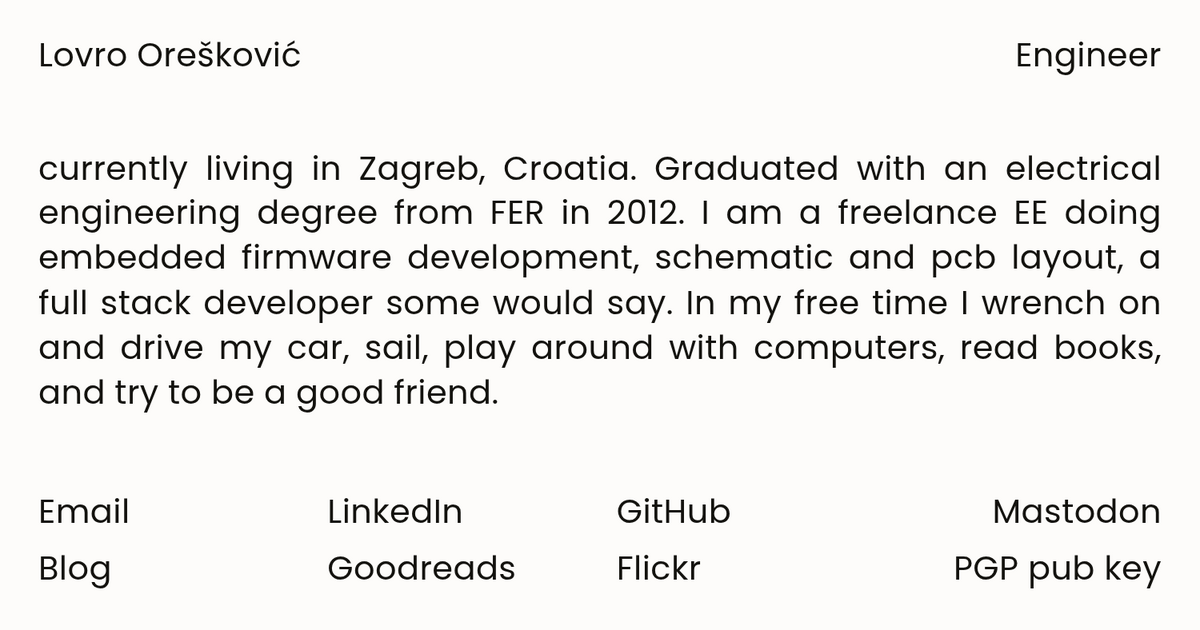
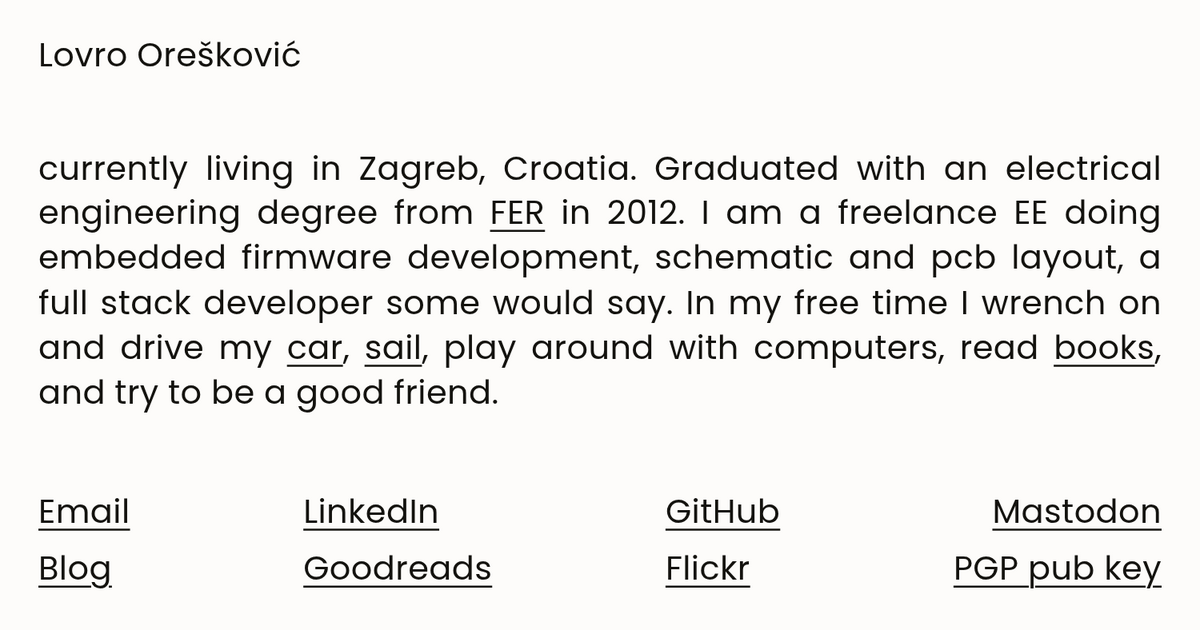
drop Engineer from the title and social metadata, re-render the card
- <title>, og:title, twitter:title and og:image:alt are just the name now, so
  the browser tab, bookmarks and link unfurls match the page.
- img-social.png was a screenshot of the page with the old masthead, so it had
  "Engineer" rendered into the picture itself. Re-rendered from the page as it
  stands now.

diff --git a/index.html b/index.html
@@ -4,7 +4,7 @@
 <head>
     <meta charset="utf-8">
     <meta name="viewport" content="width=device-width, initial-scale=1">
-    <title>Lovro Orešković — Engineer</title>
+    <title>Lovro Orešković</title>
     <meta name="description" content="Lovro Orešković, freelance electrical engineer in Zagreb, Croatia. Embedded firmware, schematic and PCB design, and full stack development.">
     <meta name="author" content="Lovro Orešković">
     <link rel="canonical" href="https://lovro.oreskovic.me/">
@@ -15,14 +15,14 @@
     <meta property="og:type" content="website">
     <meta property="og:site_name" content="Lovro Orešković">
     <meta property="og:url" content="https://lovro.oreskovic.me/">
-    <meta property="og:title" content="Lovro Orešković — Engineer">
+    <meta property="og:title" content="Lovro Orešković">
     <meta property="og:description" content="Personal site of Lovro Orešković">
     <meta property="og:image" content="https://lovro.oreskovic.me/img-social.png">
     <meta property="og:image:width" content="1200">
     <meta property="og:image:height" content="630">
-    <meta property="og:image:alt" content="Lovro Orešković — Engineer">
+    <meta property="og:image:alt" content="Lovro Orešković">
     <meta name="twitter:card" content="summary_large_image">
-    <meta name="twitter:title" content="Lovro Orešković — Engineer">
+    <meta name="twitter:title" content="Lovro Orešković">
     <meta name="twitter:description" content="Personal site of Lovro Orešković">
     <meta name="twitter:image" content="https://lovro.oreskovic.me/img-social.png">
 
